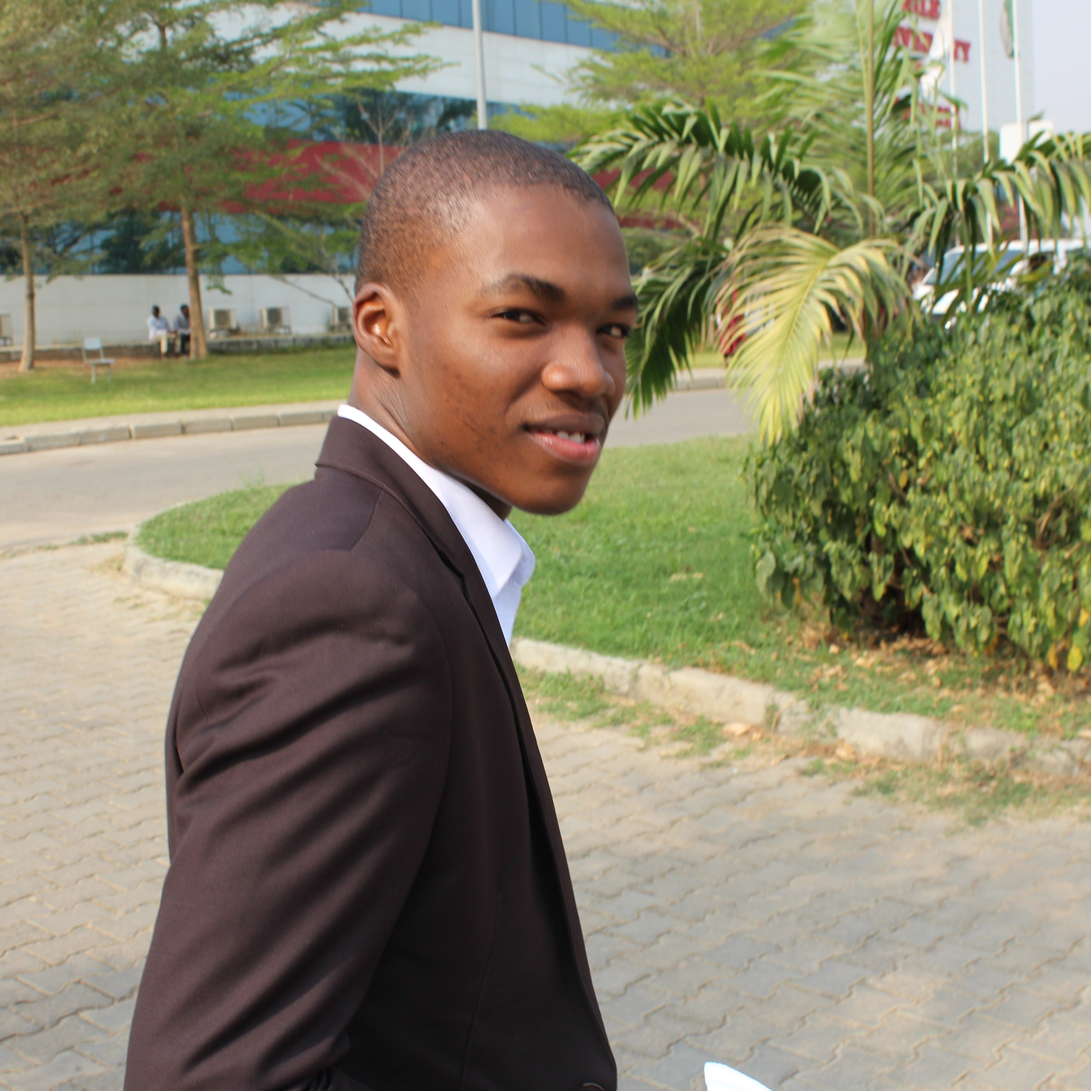
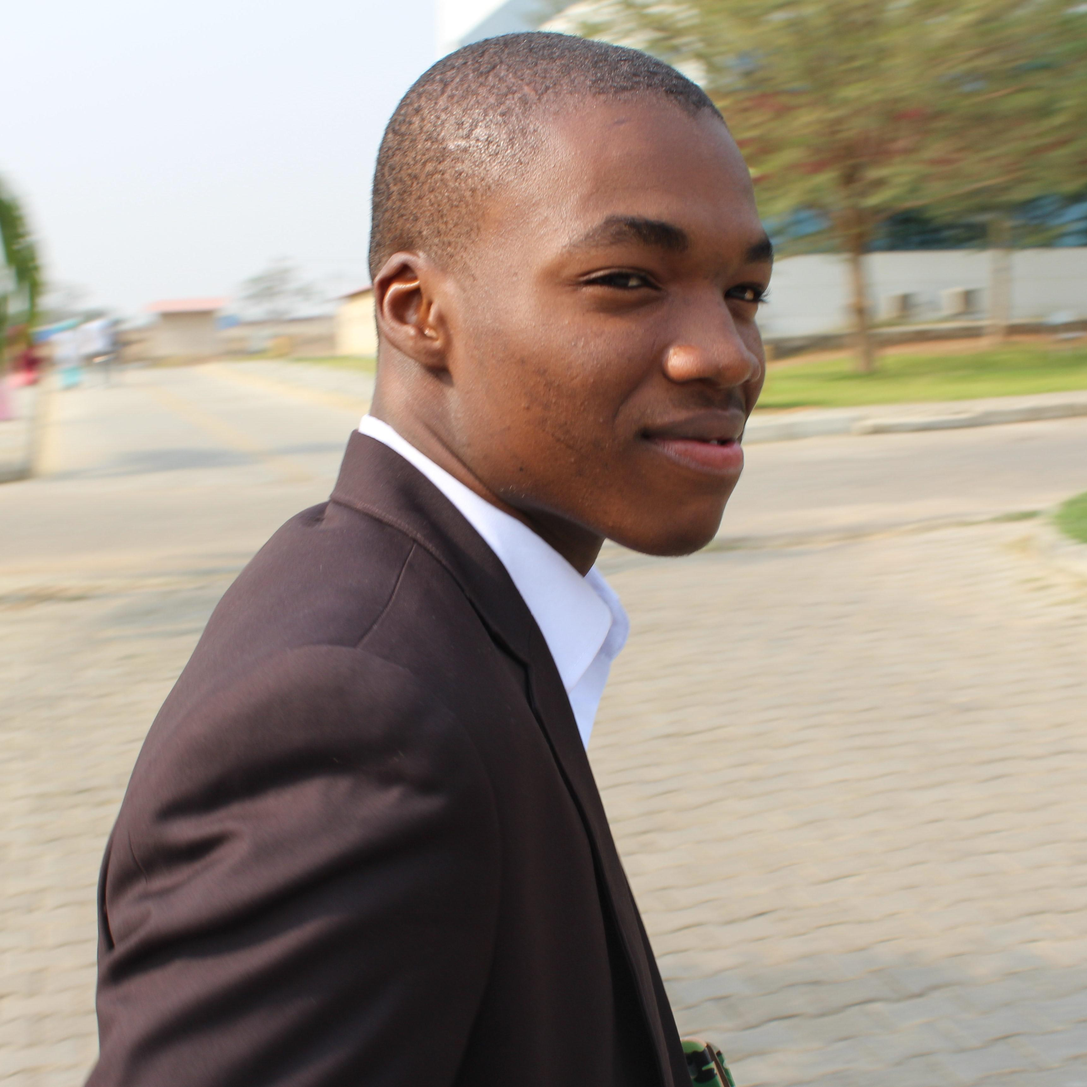
Add square crop for jpeg

diff --git a/code/sign/profile.php b/code/sign/profile.php
@@ -25,14 +25,16 @@ if (isset($_POST['update'])) {
   $password = $_POST['password'];
 
   // Get profile picture name
-  $profilePicture = renameProfilePic($userId);
-
-  if (saveProfilePic($profilePicture)) {
-    updateUser($userId, $firstName, $lastName, $email, $password, $profilePicture);
-    $_SESSION['profilePicture'] = $profilePicture;
-  } else {
-    updateUser($userId, $firstName, $lastName, $email, $password);
+  $newPic = renameProfilePic($userId);
+  if (!empty($newPic)) {
+    $profilePicture = $_SESSION['profilePicture'] = $newPic;
+    // Save picture
+    saveProfilePic($profilePicture);
+    // Crop picture
+    squareCropPicture(PROFILE_TARGET_DIR . $profilePicture);
   }
+
+  updateUser($userId, $firstName, $lastName, $email, $password, $profilePicture);
 
 }
 ?>
@@ -74,8 +76,8 @@ if (isset($_POST['update'])) {
         <form method="post" class="mt-4" enctype="multipart/form-data">
           <div class="form-group">
             <label for="profilePicture">Profile picture</label>
-            <img src="../profile-pic/<?php
-                echo (empty($profilePicture) || !file_exists(PROFILE_TARGET_DIR . $profilePicture) ? 'blank-square.jpg' : $profilePicture);
+            <img src="<?php
+                echo PROFILE_TARGET_DIR . (empty($profilePicture) || !file_exists(PROFILE_TARGET_DIR . $profilePicture) ? 'blank-square.jpg' : $profilePicture);
                 ?>"
               class="rounded-circle img-responsive col-sm-4 col-md-3 mb-2 d-block"
               alt="Profile picture">
@@ -84,7 +86,9 @@ if (isset($_POST['update'])) {
               <label class="custom-file-label m-0">No file chosen</label>
             </div>
             <small id="profilePictureHelp" class="form-text text-muted">
-              Your file size should not exceed 2MB. Only JPG, JPEG, PNG & GIF files are allowed.
+              Only JPG, JPEG, PNG & GIF files are allowed.
+              Your image size should not exceed 2MB.
+              Your image would be square cropped.
             </small>
           </div>
 

diff --git a/code/connect.php b/code/connect.php
@@ -157,4 +157,36 @@ function saveProfilePic($profilePicture) {
   return move_uploaded_file($_FILES["profilePicture"]["tmp_name"], $targetFile);
 }
 
+function squareCropPicture($picturePath) {
+  $im = imagecreatefromjpeg($picturePath);
+
+  $crop_width = imagesx($im);
+  $crop_height = imagesy($im);
+
+  $size = min($crop_width, $crop_height);
+
+  $imd = abs($crop_width-$crop_height) / 2;
+
+  // Crop image
+  $im2 = imagecrop($im,
+    ['x' => ($crop_width >= $crop_height) ? $imd : 0,
+    'y' => ($crop_width < $crop_height) ? $imd : 0,
+    'width' => $size,
+    'height' => $size]
+  );
+
+  // Replace image
+  if ($im2 !== FALSE) {
+    imagejpeg($im2, $picturePath);
+    imagedestroy($im2);
+  }
+  imagedestroy($im);
+}
+
+function getMIMEType($filePath) {
+  $finfo = new finfo(FILEINFO_MIME_TYPE, null);
+  return $finfo->file($filePath);
+}
+
+
 ?>

diff --git a/code/components/_navbar.php b/code/components/_navbar.php
@@ -7,8 +7,8 @@
   <div class="dropdown">
     <button class="btn" id="profileDropdown" type="button" data-toggle="dropdown" aria-haspopup="true" aria-expanded="false">
       <span class="d-none d-md-inline-block mr-1"><?php echo isset($userId) ? $userId : "User ID"; ?></span>
-      <img src="../profile-pic/<?php
-        echo (empty($profilePicture) || !file_exists(PROFILE_TARGET_DIR . $profilePicture) ? 'blank-square.jpg' : $profilePicture); ?>"
+      <img src="<?php
+        echo PROFILE_TARGET_DIR . (empty($profilePicture) || !file_exists(PROFILE_TARGET_DIR . $profilePicture) ? 'blank-square.jpg' : $profilePicture); ?>"
         class="rounded-circle" height="30px" width="30px">
     </button>
     <div class="dropdown-menu dropdown-menu-right" aria-labelledby="profileDropdown">

diff --git a/code/index.php b/code/index.php
@@ -1,8 +1,17 @@
 <?php
 session_start();
 
+include 'connect.php';
+
 $_SESSION['userID'] = '171103018';
-$_SESSION['profilePicture'] = '6bb000002217edf20324947d1d8eb5b1.jpg';
+
+// Get profile pic from db
+$sql = "SELECT profile_picture FROM user WHERE user_id='{$_SESSION['userID']}'";
+$result = $conn->query($sql);
+if ($result->num_rows === 1) {
+  $record = $result->fetch_assoc();
+  $_SESSION['profilePicture'] = $record['profile_picture'];
+}
 
 if (!isset($_SESSION['userID'])) {
   header("Location: sign/sign-in.php");
